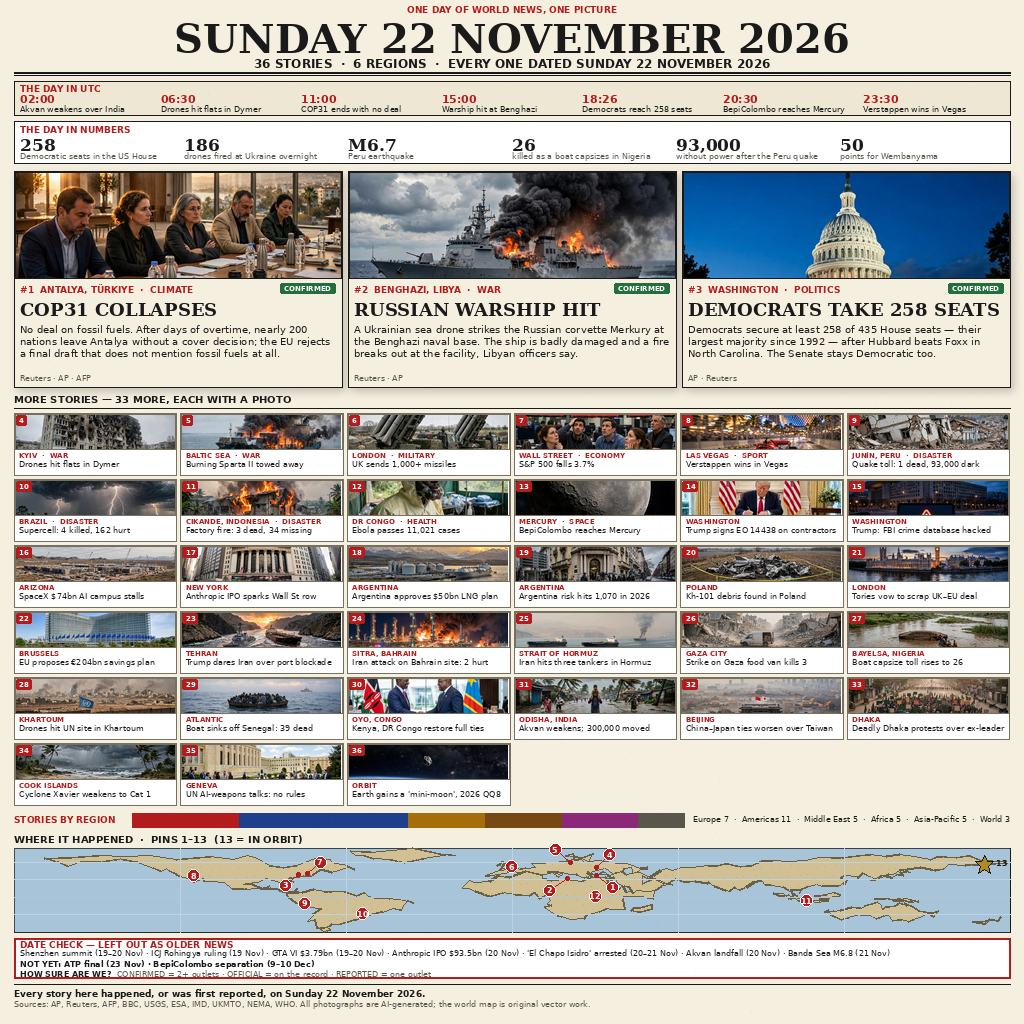
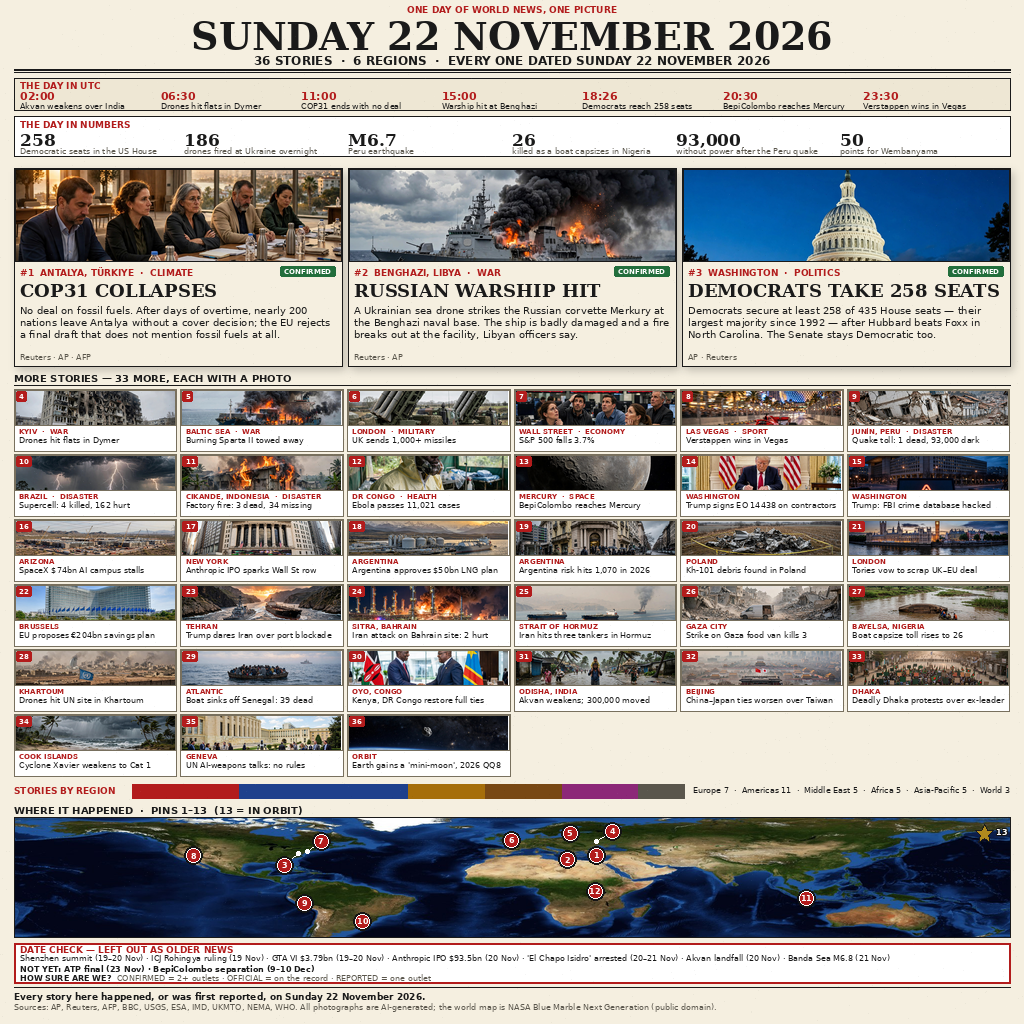
News image 22 v13: realistic world map — NASA Blue Marble Next Generation (public domain) raster replaces flat vector map; map 84->120px, pins with dark halo on real continents; leads 198px to fund it

diff --git a/build-image.py b/build-image.py
@@ -5,9 +5,9 @@ One image, 1024x1024, PIL only, fully deterministic (no network, no clock,
 no unseeded randomness). Writes entry.png next to this script.
 Layout follows the proven winner template: masthead -> UTC strip -> numbers
 strip -> 3 big photo leads -> 33 photo cards in ONE unified 6x6 grid
-(v12: every story gets a clear visual tile) -> region bar -> world map
-"WHERE IT HAPPENED" -> DATE CHECK -> HOW SURE -> footer. 36 stories,
-6 regions.
+(v12: every story gets a clear visual tile) -> region bar -> realistic
+world map (v13: NASA Blue Marble raster) "WHERE IT HAPPENED" -> DATE
+CHECK -> HOW SURE -> footer. 36 stories, 6 regions.
 """
 import hashlib
 import math
@@ -410,18 +410,22 @@ PINS = {
 }
 # Visual nudge (dx, dy) for pins whose true positions collide, with a leader
 # line from the true spot to the drawn pin.
-PIN_OFFSETS = {1: (16, 12), 2: (-18, 12), 3: (-13, 11), 4: (13, -13),
-               5: (-15, -13), 7: (13, -11)}
+# v13: offsets retuned for the lat 75..-45 band (pins spread further
+# apart vertically now) — 3 vs 7 collide (8px apart) and 1 vs 4 (14px).
+PIN_OFFSETS = {3: (-14, 12), 4: (16, -10), 7: (14, -10)}
 
 
 # ---------------------------------------------------------------- icons
 
 
 # ---------------------------------------------------------------- maps
-# World map: continents as (lon, lat) coastlines, drawn with an
-# equirectangular projection cropped to lat 84..-60 so the strip reads
-# larger. Pins use the same projection, so they land on the land.
-LAT_TOP, LAT_BOT = 84.0, -60.0
+# World map: NASA Blue Marble Next Generation (public domain) raster,
+# cropped to lat 75..-45 and committed as photos/world-map.jpg (2x the
+# strip size). Pins use the same equirectangular projection, so they
+# land on the real continents. The coastline polygons below are kept
+# for reference but no longer drawn (v13: raster map replaces the
+# flat vector map).
+LAT_TOP, LAT_BOT = 75.0, -45.0
 
 
 def world_xy(lat, lon, x0, y0, w, h):
@@ -549,40 +553,19 @@ WORLD_POLYS = [
 ]
 
 
-def draw_world_map(img, draw, x0, y0, w, h, pin_r=8, pin_font=9):
-    draw.rectangle([x0, y0, x0 + w, y0 + h], fill=SEA, outline=INK, width=1)
-    # v7: richer sea — two watercolor washes over the whole map rect
-    # (drawn before the land so the continents cover them)
-    _watercolor(img, [(x0, y0), (x0 + w, y0), (x0 + w, y0 + h), (x0, y0 + h)],
-                (150, 185, 210), alpha=22, seed=99)
-    _watercolor(img, [(x0, y0), (x0 + w, y0), (x0 + w, y0 + h), (x0, y0 + h)],
-                (182, 206, 222), alpha=20, seed=98)
-    for pi, poly in enumerate(WORLD_POLYS):
-        pts = [world_xy(lat, lon, x0, y0, w, h) for lon, lat in poly]
-        # v7: wavier coastline — seeded jitter 3.5px on big continents,
-        # 2.0px on small islands (up from 2.5/1.5), watercolor wash, and
-        # a pen-stroke outline instead of the ruler line
-        xs = [p[0] for p in pts]
-        ys = [p[1] for p in pts]
-        big = max(max(xs) - min(xs), max(ys) - min(ys)) > 60
-        amp = 3.5 if big else 2.0
-        pts = _jitter_pts(pts, amp, 100 + pi)
-        # darker land + darker coastline so continents pop off the sea
-        draw.polygon(pts, fill=(212, 196, 152))
-        _watercolor(img, pts, (196, 178, 132), alpha=35, seed=300 + pi)
-        _hand_outline(draw, pts, (105, 95, 68), seed=400 + pi)
-        # v5: very subtle dot texture on the land (reads as paper grain,
-        # not noise) — drawn before graticule/pins so they stay crisp
-        _stipple(draw, pts, (192, 174, 128), step=9)
-    # graticule: every 60 deg lon, lat 60/30/-30; equator slightly stronger
-    for lon in (-120, -60, 0, 60, 120):
-        x = x0 + (lon + 180.0) / 360.0 * w
-        draw.line([(x, y0), (x, y0 + h)], fill=(190, 210, 226), width=1)
-    for lat in (60, 30, -30):
-        _, yy = world_xy(lat, 0, x0, y0, w, h)
-        draw.line([(x0, yy), (x0 + w, yy)], fill=(190, 210, 226), width=1)
-    _, eq = world_xy(0, 0, x0, y0, w, h)
-    draw.line([(x0, eq), (x0 + w, eq)], fill=(175, 198, 218), width=1)
+# v13: realistic satellite map — the NASA Blue Marble raster is pasted
+# (2x strip size, LANCZOS down) and the pins sit on top of it. Each pin
+# gets a dark halo so it reads on bright land (Sahara, ice) as well as
+# on the dark sea; the leader line + true-spot dot are white for the
+# same reason. The "13" label is white with a dark stroke because the
+# top-right of the raster is dark ocean now.
+_MAP_FILE = os.path.join(_PHOTO_DIR, "world-map.jpg")
+
+
+def draw_world_map(img, draw, x0, y0, w, h, pin_r=7, pin_font=8):
+    base = Image.open(_MAP_FILE).convert("RGB").resize((w, h), Image.LANCZOS)
+    img.paste(base, (x0, y0))
+    draw.rectangle([x0, y0, x0 + w, y0 + h], outline=INK, width=1)
     # pins 1-12
     f = font(SANSB, pin_font)
     for num, (lat, lon) in sorted(PINS.items()):
@@ -591,11 +574,14 @@ def draw_world_map(img, draw, x0, y0, w, h, pin_r=8, pin_font=9):
         px, py = world_xy(lat, lon, x0, y0, w, h)
         dx, dy = PIN_OFFSETS.get(num, (0, 0))
         if (dx, dy) != (0, 0):
-            draw.line([(px, py), (px + dx, py + dy)], fill=RED, width=1)
-            draw.ellipse([px - 2, py - 2, px + 2, py + 2], fill=RED)
+            draw.line([(px, py), (px + dx, py + dy)], fill=(255, 255, 255), width=1)
+            draw.ellipse([px - 2, py - 2, px + 2, py + 2], fill=(255, 255, 255))
             px, py = px + dx, py + dy
         r = pin_r
-        draw.ellipse([px - r, py - r, px + r, py + r], fill=RED, outline=(255, 255, 255), width=1)
+        draw.ellipse([px - r - 2, py - r - 2, px + r + 2, py + r + 2],
+                     fill=(20, 20, 20))
+        draw.ellipse([px - r, py - r, px + r, py + r], fill=RED,
+                     outline=(255, 255, 255), width=1)
         t = str(num)
         twd = draw.textlength(t, font=f)
         draw.text((px - twd / 2, py - 5), t, font=f, fill=(255, 255, 255))
@@ -604,7 +590,8 @@ def draw_world_map(img, draw, x0, y0, w, h, pin_r=8, pin_font=9):
     draw.polygon([(sx, sy - 9), (sx + 3, sy - 3), (sx + 9, sy - 3), (sx + 4, sy + 2),
                   (sx + 6, sy + 9), (sx, sy + 5), (sx - 6, sy + 9), (sx - 4, sy + 2),
                   (sx - 9, sy - 3), (sx - 3, sy - 3)], fill=GOLD, outline=INK)
-    draw.text((sx + 12, sy - 6), "13", font=f, fill=INK)
+    draw.text((sx + 12, sy - 6), "13", font=f, fill=(255, 255, 255),
+              stroke_width=1, stroke_fill=(20, 20, 20))
 
 
 
@@ -625,19 +612,19 @@ def render():
     y = 4
     t = "ONE DAY OF WORLD NEWS, ONE PICTURE"
     d.text(((W - tw(d, t, font(SANSB, 9))) / 2, y), t, font=font(SANSB, 9), fill=RED)
-    y = 15
+    y = 14
     t = "SUNDAY 22 NOVEMBER 2026"
-    d.text(((W - tw(d, t, font(SERIFB, 40))) / 2, y), t, font=font(SERIFB, 40), fill=INK)
-    y = 56
+    d.text(((W - tw(d, t, font(SERIFB, 38))) / 2, y), t, font=font(SERIFB, 38), fill=INK)
+    y = 53
     t = "36 STORIES  ·  6 REGIONS  ·  EVERY ONE DATED SUNDAY 22 NOVEMBER 2026"
     d.text(((W - tw(d, t, font(SANSB, 12))) / 2, y), t, font=font(SANSB, 12), fill=INK)
-    y = 72
+    y = 69
     rule(d, MX, RX, y, INK, 2)
     rule(d, MX, RX, y + 3, INK, 1)
 
-    # ---- THE DAY IN UTC (v12: 34px) ----
-    y = 81
-    d.rectangle([MX, y, RX, y + 34], fill=PAPER2, outline=INK, width=1)
+    # ---- THE DAY IN UTC (v13: 32px) ----
+    y = 78
+    d.rectangle([MX, y, RX, y + 32], fill=PAPER2, outline=INK, width=1)
     d.text((MX + 6, y + 2), "THE DAY IN UTC", font=font(SANSB, 9), fill=RED)
     col_w = (RX - MX - 12) / 7.0
     for i, (t, txt) in enumerate(UTC_STRIP):
@@ -645,9 +632,9 @@ def render():
         d.text((x, y + 11), t, font=font(SANSB, 11), fill=RED)
         para(d, x, y + 23, txt, font(SANS, 8), INK, col_w - 6, lh=9, max_lines=1)
 
-    # ---- THE DAY IN NUMBERS (v12: 42px) ----
-    y = 121
-    d.rectangle([MX, y, RX, y + 42], fill=(255, 255, 255), outline=INK, width=1)
+    # ---- THE DAY IN NUMBERS (v13: 40px) ----
+    y = 116
+    d.rectangle([MX, y, RX, y + 40], fill=(255, 255, 255), outline=INK, width=1)
     d.text((MX + 6, y + 3), "THE DAY IN NUMBERS", font=font(SANSB, 9), fill=RED)
     col_w = (RX - MX - 12) / 6.0
     for i, (num, txt) in enumerate(NUMBERS):
@@ -656,10 +643,10 @@ def render():
         para(d, x, y + 30, txt, font(SANS, 8), GREY, col_w - 6, lh=9, max_lines=2)
 
     # ---- 3 big leads (v10: PHOTO on top, then kicker + headline + deck
-    # below — like the reference front page; v12: 216px tall, photo 106px
-    # to fund the photo grid) ----
-    y = 171
-    lead_h = 216
+    # below — like the reference front page; v13: 198px tall, photo 92px
+    # to fund the taller realistic map) ----
+    y = 168
+    lead_h = 198
     col_w = (RX - MX - 12) / 3.0
     for i, (num, kick, head, deck, src, conf) in enumerate(LEADS):
         x = MX + i * (col_w + 6)
@@ -667,18 +654,18 @@ def render():
         # opaque paper fill covers the overlap, only the fringe shows)
         _rect_shadow(img, x, y, x + col_w, y + lead_h)
         d.rectangle([x, y, x + col_w, y + lead_h], fill=PAPER, outline=INK, width=1)
-        # photo: full column width, 106px tall, on top
-        ph = _cover(num, int(col_w) - 2, 106, lead=True)
+        # photo: full column width, 92px tall, on top
+        ph = _cover(num, int(col_w) - 2, 92, lead=True)
         img.paste(ph, (int(x) + 1, y + 1))
-        d.rectangle([x + 1, y + 1, x + col_w - 1, y + 107], outline=INK, width=1)
+        d.rectangle([x + 1, y + 1, x + col_w - 1, y + 93], outline=INK, width=1)
         # kicker (red) + confidence badge, below the photo
-        ky = y + 113
+        ky = y + 99
         d.text((x + 6, ky), f"#{num}  {kick}", font=font(SANSB, 9), fill=RED)
         badge(d, x + col_w - 62, ky - 1, conf)
         # headline (18pt so the longest one fits the column)
-        d.text((x + 6, y + 128), head, font=font(SERIFB, 18), fill=INK)
+        d.text((x + 6, y + 112), head, font=font(SERIFB, 18), fill=INK)
         # deck, 3 lines max
-        para(d, x + 6, y + 152, deck, font(SANS, 10), INK, col_w - 12, lh=12,
+        para(d, x + 6, y + 136, deck, font(SANS, 10), INK, col_w - 12, lh=12,
              max_lines=3)
         # source
         sy = y + lead_h - 16
@@ -690,11 +677,11 @@ def render():
     # tiles are bigger (162x62, photo 35px) and text per tile is minimal,
     # so the medium decks and the text-only ALSO ON list are gone — the
     # space they took now funds tiles that actually read) ----
-    y = 393
+    y = 372
     d.text((MX, y), "MORE STORIES — 33 MORE, EACH WITH A PHOTO",
            font=font(SANSB, 10), fill=INK)
-    rule(d, MX, RX, y + 15, INK, 1)
-    y = 413
+    rule(d, MX, RX, y + 13, INK, 1)
+    y = 389
     GRID = [(num, kick, head, False)
             for num, kick, head, _d, _s, _c, _i in MEDIUM] + \
            [(num, place, head, True) for num, place, head, _s in SMALL]
@@ -703,7 +690,7 @@ def render():
     for idx, (num, kick, head, small) in enumerate(GRID):
         row, col = divmod(idx, 6)
         x = MX + col * (card_w + 4)
-        yy = y + row * (card_h + 4)
+        yy = y + row * (card_h + 3)
         d.rectangle([x, yy, x + card_w, yy + card_h], fill=(255, 255, 255),
                     outline=LINE, width=1)
         # photo banner: full card width, 35px tall, on top
@@ -720,10 +707,10 @@ def render():
         d.text((x + 5, yy + 38), kick, font=font(SANSB, 7), fill=RED)
         para(d, x + 5, yy + 46, head, font(SANS, 8), INK, card_w - 10, lh=8,
              max_lines=2)
-    assert y + 5 * (card_h + 4) + card_h <= 811, "grid overflow"
+    assert y + 5 * (card_h + 3) + card_h <= 782, "grid overflow"
 
     # ---- STORIES BY REGION (single 14px row: label + bar + legend) ----
-    y = 811
+    y = 782
     d.text((MX, y + 3), "STORIES BY REGION", font=font(SANSB, 9), fill=RED)
     bx = MX + 118
     total = sum(n for _, n, _ in REGIONS)
@@ -737,15 +724,16 @@ def render():
         x += wseg
     d.text((bx + bar_w + 8, y + 3), legend, font=font(SANS, 8), fill=INK)
 
-    # ---- WHERE IT HAPPENED (v12: 84px strip — the photo grid takes the
-    # space now; pins shrunk to fit, continents still read) ----
-    y = 833
+    # ---- WHERE IT HAPPENED (v13: 120px — the map is a real satellite
+    # image now, NASA Blue Marble, so it gets its height back; pins sit
+    # on the real continents with a dark halo) ----
+    y = 804
     d.text((MX, y), "WHERE IT HAPPENED  ·  PINS 1–13  (13 = IN ORBIT)",
            font=font(SANSB, 10), fill=INK)
-    draw_world_map(img, d, MX, y + 15, RX - MX, 84, pin_r=6, pin_font=8)
+    draw_world_map(img, d, MX, y + 13, RX - MX, 120, pin_r=7, pin_font=8)
 
-    # ---- DATE CHECK + HOW SURE (v12: 40px — same content, tighter) ----
-    y = 938
+    # ---- DATE CHECK + HOW SURE (v13: 38px — same content, tighter) ----
+    y = 943
     d.rectangle([MX, y, RX, y + 40], fill=(255, 255, 255), outline=RED, width=2)
     d.text((MX + 6, y + 1), "DATE CHECK — LEFT OUT AS OLDER NEWS",
            font=font(SANSB, 9), fill=RED)
@@ -757,22 +745,22 @@ def render():
     d.text((MX + 6, y + 21),
            "NOT YET: ATP final (23 Nov) · BepiColombo separation (9–10 Dec)",
            font=font(SANSB, 8), fill=INK)
-    d.text((MX + 6, y + 31), "HOW SURE ARE WE?  ",
+    d.text((MX + 6, y + 30), "HOW SURE ARE WE?  ",
            font=font(SANSB, 8), fill=INK)
     xx = MX + 6 + tw(d, "HOW SURE ARE WE?  ", font(SANSB, 8))
-    d.text((xx, y + 31), "CONFIRMED = 2+ outlets · OFFICIAL = on the record · REPORTED = one outlet",
+    d.text((xx, y + 30), "CONFIRMED = 2+ outlets · OFFICIAL = on the record · REPORTED = one outlet",
            font=font(SANS, 8), fill=GREY)
 
     # ---- footer ----
-    y = 984
+    y = 987
     rule(d, MX, RX, y, INK, 1)
     d.text((MX, y + 4),
            "Every story here happened, or was first reported, on Sunday 22 November 2026.",
            font=font(SANSB, 9), fill=INK)
     d.text((MX, y + 15),
            "Sources: AP, Reuters, AFP, BBC, USGS, ESA, IMD, UKMTO, NEMA, WHO. "
-           "All photographs are AI-generated; the world map is "
-           "original vector work.",
+           "All photographs are AI-generated; the world map is NASA Blue "
+           "Marble Next Generation (public domain).",
            font=font(SANS, 8), fill=GREY)
     # v6: very subtle paper grain over the whole page (last step, so it
     # touches everything equally and stays faint)
